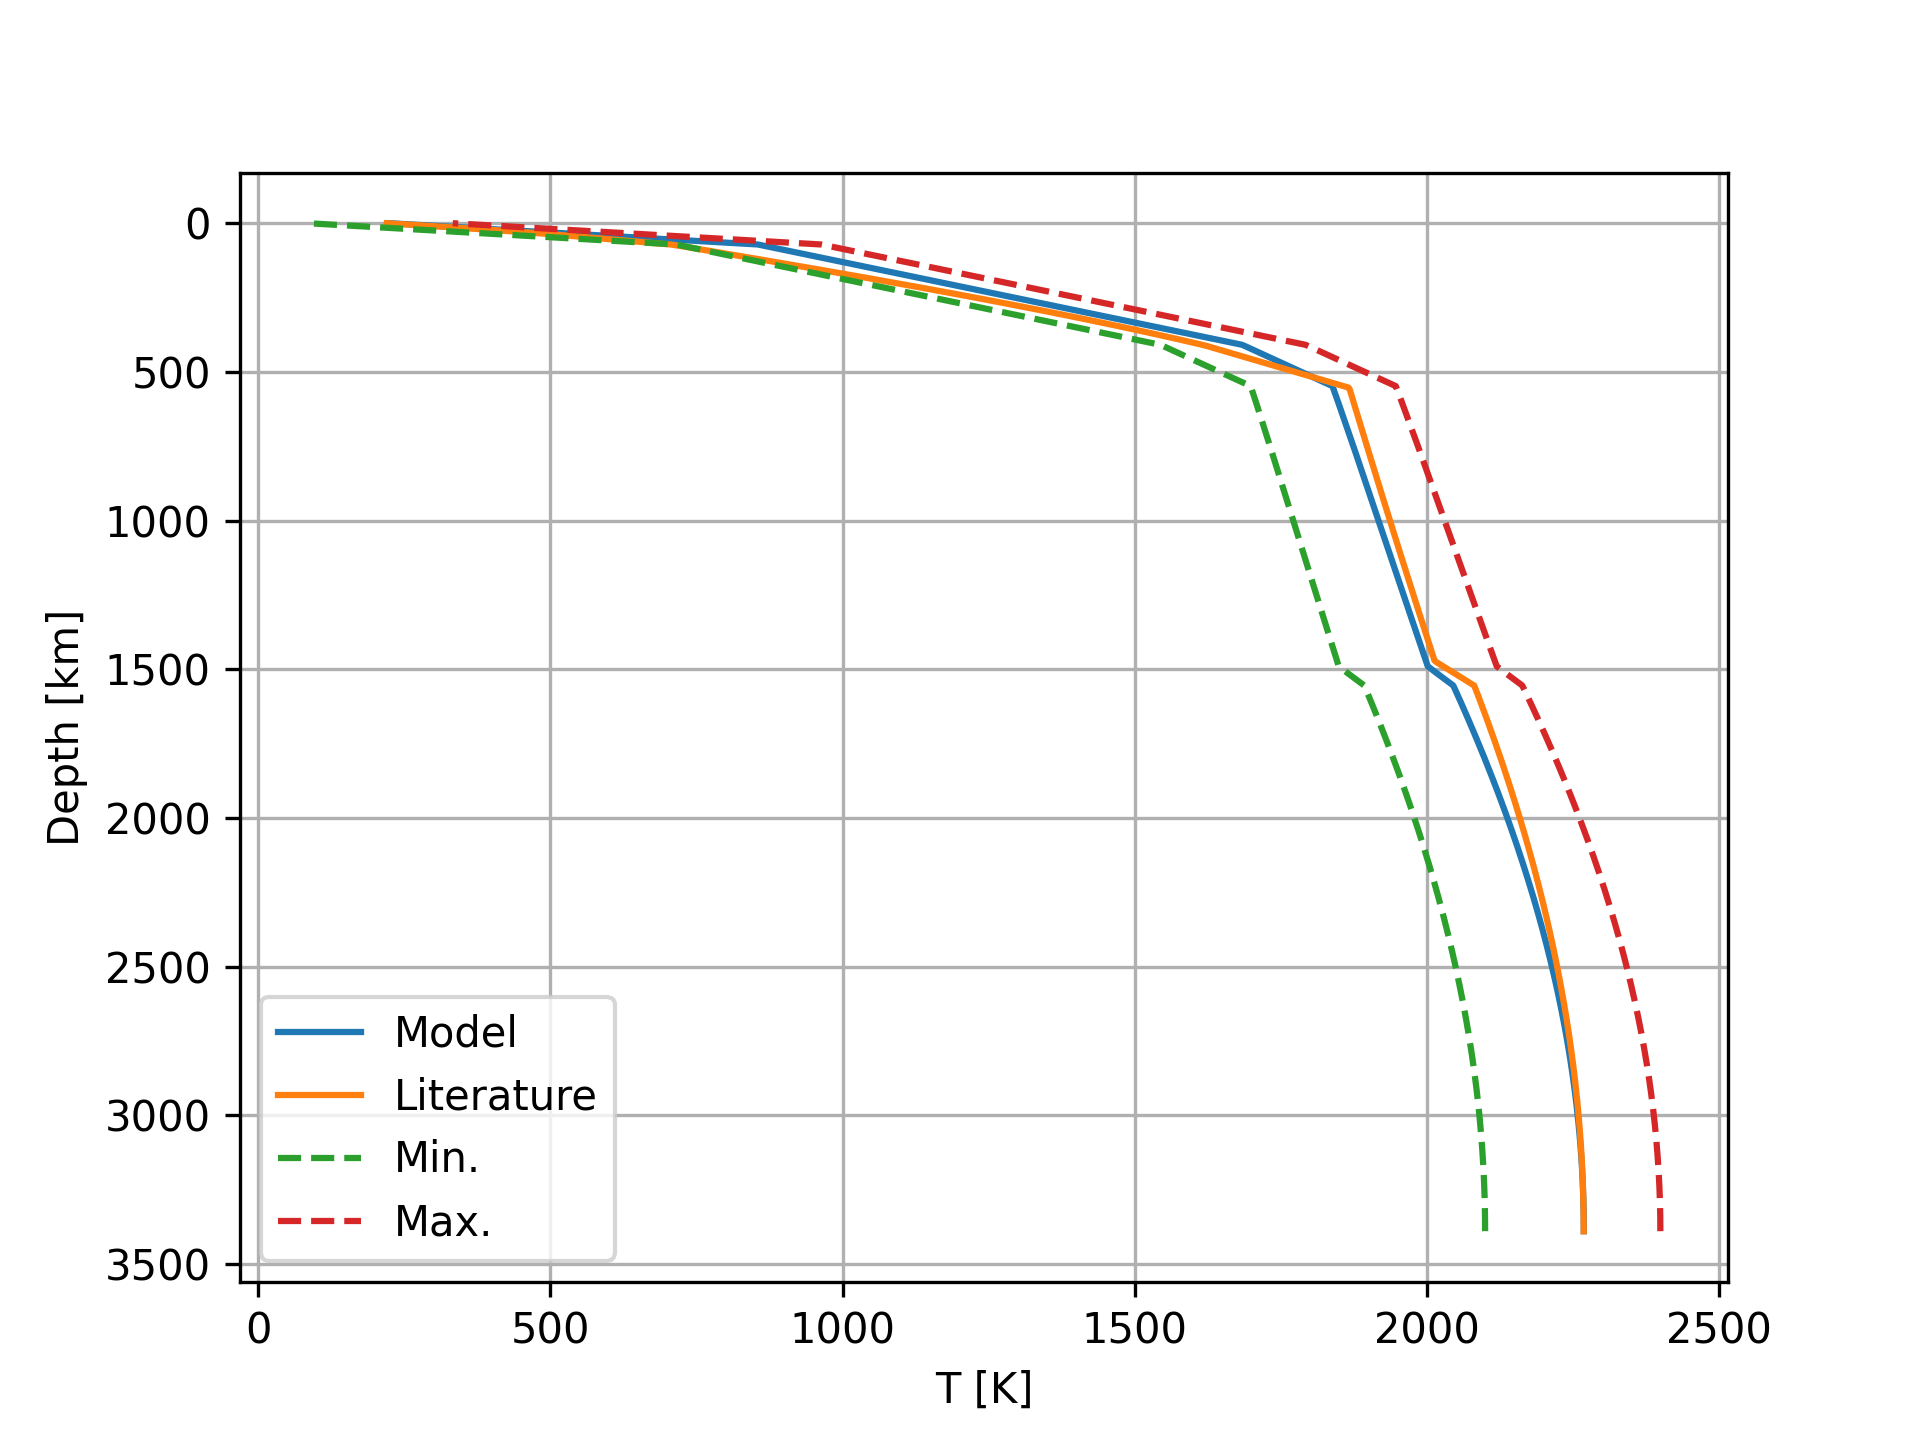
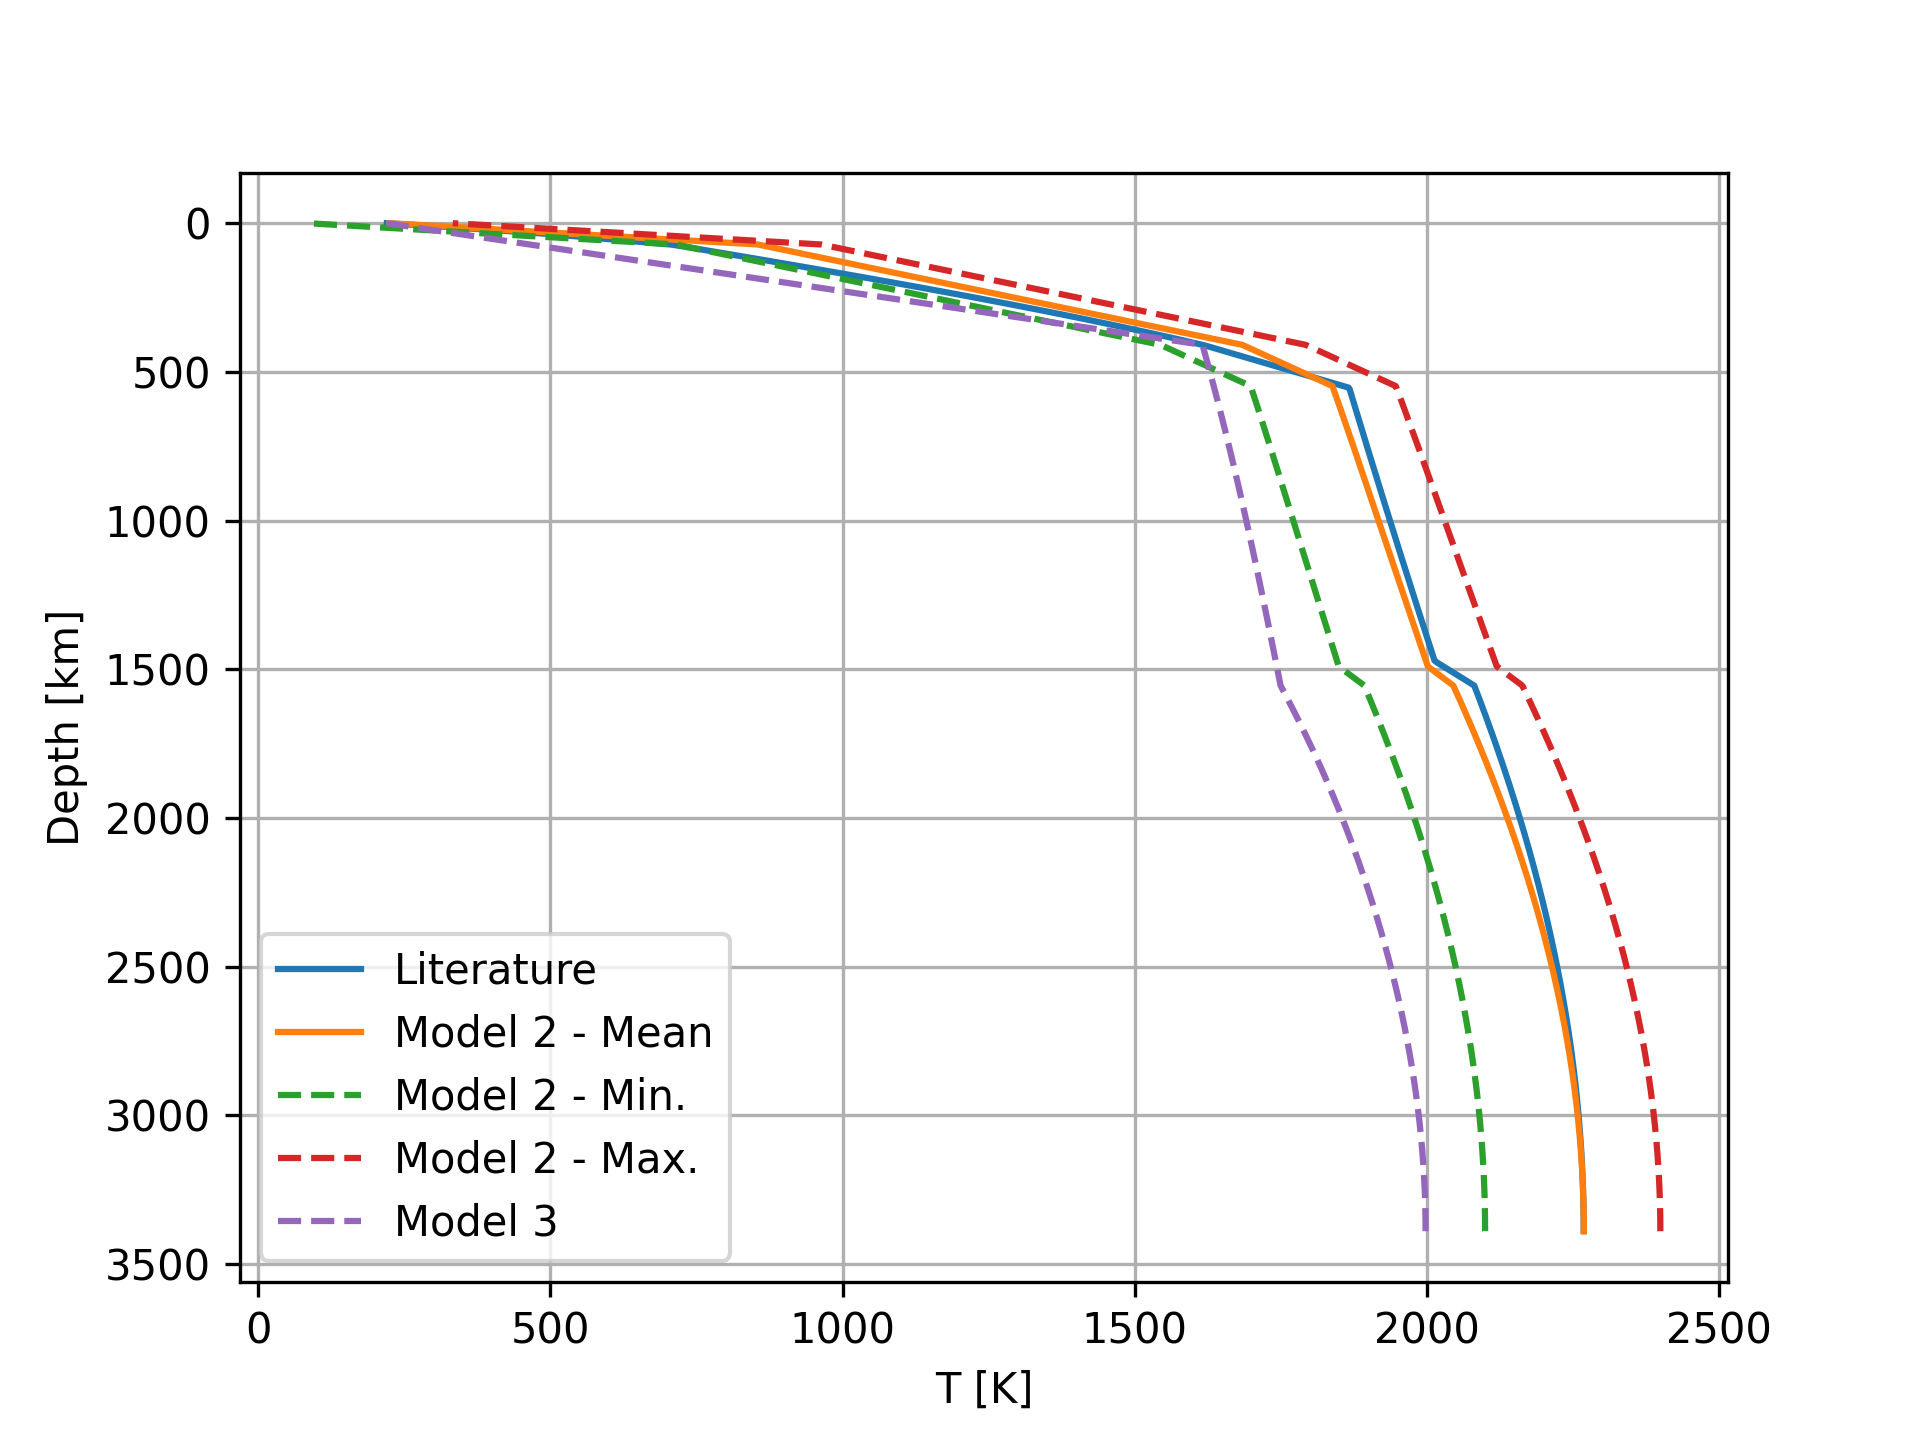
Added burnman, finished assignment

diff --git a/a1/q56.py b/a1/q56.py
@@ -4,6 +4,7 @@ import matplotlib.pyplot as plt
 
 dr = 10.0 # [m]
 data_rho = np.loadtxt("rho_profile.dat")
+data_burnman = np.loadtxt("burnman_results.txt")
 
 layers = [[0, 1834.64E3], [1834.64E3, 1899.12E3], [1899.12E3, 2841.56E3], [2841.56E3, 2980.45E3], [2980.45E3, 3317.74E3], [3317.74E3, 3389.5E3]]
 rho_vals = [6100.0, 3975.0, 3750.0, 3475.0, 3300.0, 2925.0]
@@ -15,6 +16,12 @@ k_arr = [40, 40, 4, 20, 9, 2.5]
 qs = 22.0E-3
 gamma = 4.152E-12
 tol = 1.0
+
+m1_str = "Model 1"
+m2_mean = "Model 2 - Mean"
+m2_min = "Model 2 - Min."
+m2_max = "Model 2 - Max."
+b_str = "Model 3"
 
 fig, (ax1, ax0) = plt.subplots(1, 2)
 for ax in fig.axes:
@@ -35,9 +42,9 @@ Mars1 = Planet("Mars min.", layers, rho_vals, alpha_arr, Cp_arr, eta_arr, k_arr,
 Mars2 = Planet("Mars max.", layers, rho_vals, alpha_arr, Cp_arr, eta_arr, k_arr, dr, 5454395, "Euler")
 r_km = (Mars.radius-Mars.r)/1E3
 rho_initial = np.array([Mars.rho(r_val) for r_val in Mars.r])
-plt.plot(rho_initial, r_km, label="Initial")
-ax1.plot(Mars.r/1E3, Mars.g, label="Initial", linestyle="--")
-ax0.plot(Mars.r/1E3, Mars.p/1E9, label="Initial", linestyle="--")
+plt.plot(rho_initial, r_km, label=m1_str)
+ax1.plot(Mars.r/1E3, Mars.g, label=m1_str, linestyle="--")
+ax0.plot(Mars.r/1E3, Mars.p/1E9, label=m1_str, linestyle="--")
 
 Mars.report_results()
 
@@ -45,27 +52,30 @@ Mars.compute_T(2269.0, qs, gamma)
 Mars.update_density(tol)
 Mars.compute_MoI()
 Mars.report_results()
-plt.plot(np.array([Mars.rho(r_val) for r_val in Mars.r]), r_km, label="Converged model")
-ax1.plot(Mars.r/1E3, Mars.g, label="Converged model")
-ax0.plot(Mars.r/1E3, Mars.p/1E9, label="Converged model")
+plt.plot(np.array([Mars.rho(r_val) for r_val in Mars.r]), r_km, label=m2_mean)
+ax1.plot(Mars.r/1E3, Mars.g, label=m2_mean)
+ax0.plot(Mars.r/1E3, Mars.p/1E9, label=m2_mean)
 
 Mars1.compute_T(2173.0, qs, gamma)
 Mars1.update_density(tol)
 Mars1.compute_MoI()
 Mars1.report_results()
-plt.plot(np.array([Mars1.rho(r_val) for r_val in Mars1.r]), r_km, label="Converged min.", linestyle="--")
-ax1.plot(Mars.r/1E3, Mars1.g, label="Converged min.")
-ax0.plot(Mars.r/1E3, Mars1.p/1E9, label="Converged min.")
+plt.plot(np.array([Mars1.rho(r_val) for r_val in Mars1.r]), r_km, label=m2_min, linestyle="--")
+ax1.plot(Mars.r/1E3, Mars1.g, label=m2_min)
+ax0.plot(Mars.r/1E3, Mars1.p/1E9, label=m2_min)
 
 Mars2.compute_T(2373.0, qs, gamma)
 Mars2.update_density(tol)
 Mars2.compute_MoI()
 Mars2.report_results()
-plt.plot(np.array([Mars2.rho(r_val) for r_val in Mars2.r]), r_km, label="Converged max.", linestyle="--")
-ax1.plot(Mars.r/1E3, Mars2.g, label="Converged max.")
-ax0.plot(Mars.r/1E3, Mars2.p/1E9, label="Converged max.")
+plt.plot(np.array([Mars2.rho(r_val) for r_val in Mars2.r]), r_km, label=m2_max, linestyle="--")
+ax1.plot(Mars.r/1E3, Mars2.g, label=m2_max)
+ax0.plot(Mars.r/1E3, Mars2.p/1E9, label=m2_max)
 
 plt.plot(data_rho[:,0], (Mars.radius/1E3)-data_rho[:,1], linestyle="--", label="Literature")
+plt.plot(data_burnman[1,:], (Mars.radius-data_burnman[0,:])/1E3, linestyle="--", label=b_str)
+ax1.plot(data_burnman[0,:]/1E3, data_burnman[2,:], label=b_str)
+ax0.plot(data_burnman[0,:]/1E3, data_burnman[-2,:]/1E9, label=b_str)
 
 fig.tight_layout()
 ax0.legend()

diff --git a/a1/q7.py b/a1/q7.py
@@ -1,0 +1,93 @@
+from burnman import Layer, Planet
+from burnman import minerals
+import burnman
+import numpy as np
+import matplotlib.pyplot as plt
+
+R = 3389.5E3
+Rcore = 1834.64E3
+Tsurface = 220.0
+z_crust = R - 2980.45E3
+T_top = 1616.140
+
+Pcmb = 19.4E9
+
+Ncore = 41
+Nmantle = 41
+Ncrust = 21
+
+
+Core = Layer('Core', radii=np.linspace(0., Rcore, Ncore))
+
+FeS = burnman.Composite(
+    [minerals.HP_2011_ds62.iron(), minerals.HP_2011_ds62.S()], 
+    fractions = [0.2417, 0.7583], 
+    fraction_type = "molar",
+    name= "Troilite"
+)
+
+core_material = burnman.Composite(
+    [minerals.SE_2015.fcc_iron(), minerals.HP_2011_ds62.Ni(), FeS],
+    fractions = [0.5335, 0.076, 0.3905],
+    fraction_type = "molar",
+    name = "core material"
+)
+
+Core.set_material(core_material)
+Core.set_temperature_mode('adiabatic')
+Core.set_pressure_mode(pressure_mode='self-consistent', pressure_top=Pcmb, gravity_bottom=0)
+
+
+Mantle = Layer('Mantle', radii=np.linspace(Rcore, R-z_crust, Nmantle))
+
+mantle_material = burnman.Composite(
+    [minerals.SLB_2011.periclase(), minerals.SLB_2022.olivine([1.0, 0.0]), minerals.SLB_2022.alpv()],
+    fractions = [0.195, 0.58, 0.225],
+    fraction_type = "molar",
+    name = "mantle material"
+)
+
+Mantle.set_material(mantle_material)
+Mantle.set_temperature_mode('adiabatic', temperature_top=T_top)
+
+
+Crust = Layer('crust', radii=np.linspace(R-z_crust, R, Ncrust))
+
+crust_material = burnman.Composite(
+    [minerals.SLB_2011.clinopyroxene([0.2]*5), minerals.SLB_2011.orthopyroxene([0.25]*4), minerals.SLB_2011.plagioclase([0.5]*2)],
+    fractions = [0.285, 0.655, 0.06],
+    fraction_type = "molar",
+    name = "crust material"
+)
+
+Crust.set_material(crust_material)
+Crust.set_temperature_mode('user-defined', np.linspace(Tsurface, T_top, Ncrust)[::-1])
+
+Mars = Planet('Mars', [Core, Mantle, Crust], verbose=True)
+Mars.make()
+
+print(f'Mass: {Mars.mass:.5e} [kg]')
+print(f'Gravity: {Mars.gravity[-1]:.3f} [m/s^2]')
+print(f'MoI : {Mars.moment_of_inertia_factor:.5f} [-]')
+
+test = np.vstack((Mars.radii, Mars.density, Mars.gravity, Mars.pressure, Mars.temperature))
+np.savetxt("burnman_results.txt", test)
+
+fig = plt.figure(figsize=(14, 7))
+ax = [fig.add_subplot(2, 2, i) for i in range(1, 5)]
+ax[0].plot(Mars.pressure/1.e9, 3389.5-Mars.radii/1.e3)
+ax[1].plot(Mars.temperature, 3389.5-Mars.radii/1.e3)
+ax[2].plot(Mars.gravity, 3389.5-Mars.radii/1.e3)
+ax[3].plot(Mars.density, Mars.radii/1.e3)
+for i in range(3):
+    ax[i].set_ylim(3389.5-Mars.radii[0]/1.e3,
+                   3389.5-Mars.radii[-1]/1.e3)
+    ax[i].set_ylabel('Depth (km)')
+
+ax[0].set_xlabel('Pressure (GPa)')
+ax[1].set_xlabel('Temperature (K)')
+ax[2].set_xlabel('Gravity (m/s$^2$)')
+ax[3].set_xlabel(r'Density [$kg/m^3$]')
+
+fig.set_layout_engine('tight')
+plt.show()

diff --git a/a1/q4.py b/a1/q4.py
@@ -4,7 +4,12 @@ import matplotlib.pyplot as plt
 
 dr = 10.0 # [m]
 data = np.loadtxt("Tprofile.dat")
-data_rho = np.loadtxt("rho_profile.dat")
+data_burnman = np.loadtxt("burnman_results.txt")
+
+m2_mean = "Model 2 - Mean"
+m2_min = "Model 2 - Min."
+m2_max = "Model 2 - Max."
+b_str = "Model 3"
 
 layers = [[0, 1834.64E3], [1834.64E3, 1899.12E3], [1899.12E3, 2841.56E3], [2841.56E3, 2980.45E3], [2980.45E3, 3317.74E3], [3317.74E3, 3389.5E3]]
 rho_vals = [6100.0, 3975.0, 3750.0, 3475.0, 3300.0, 2925.0]
@@ -40,10 +45,11 @@ plt.gca().invert_yaxis()
 plt.ylabel("Depth [km]")
 plt.xlabel("T [K]")
 plt.grid()
-plt.plot(T_profile, (Mars.radius-Mars.r)/1E3, label="Model")
 plt.plot(data[:,0], Mars.radius/1E3 - data[:,1], label="Literature")
-plt.plot(T_min, (Mars.radius-Mars.r)/1E3, label="Min.", linestyle="--")
-plt.plot(T_max, (Mars.radius-Mars.r)/1E3, label="Max.", linestyle="--")
+plt.plot(T_profile, (Mars.radius-Mars.r)/1E3, label=m2_mean)
+plt.plot(T_min, (Mars.radius-Mars.r)/1E3, label=m2_min, linestyle="--")
+plt.plot(T_max, (Mars.radius-Mars.r)/1E3, label=m2_max, linestyle="--")
+plt.plot(data_burnman[-1,:], (Mars.radius-data_burnman[0,:])/1E3, label=b_str, linestyle="--")
 plt.legend(loc="lower left")
 plt.savefig("Mars_T_profile.png", dpi=300)
 plt.show()
